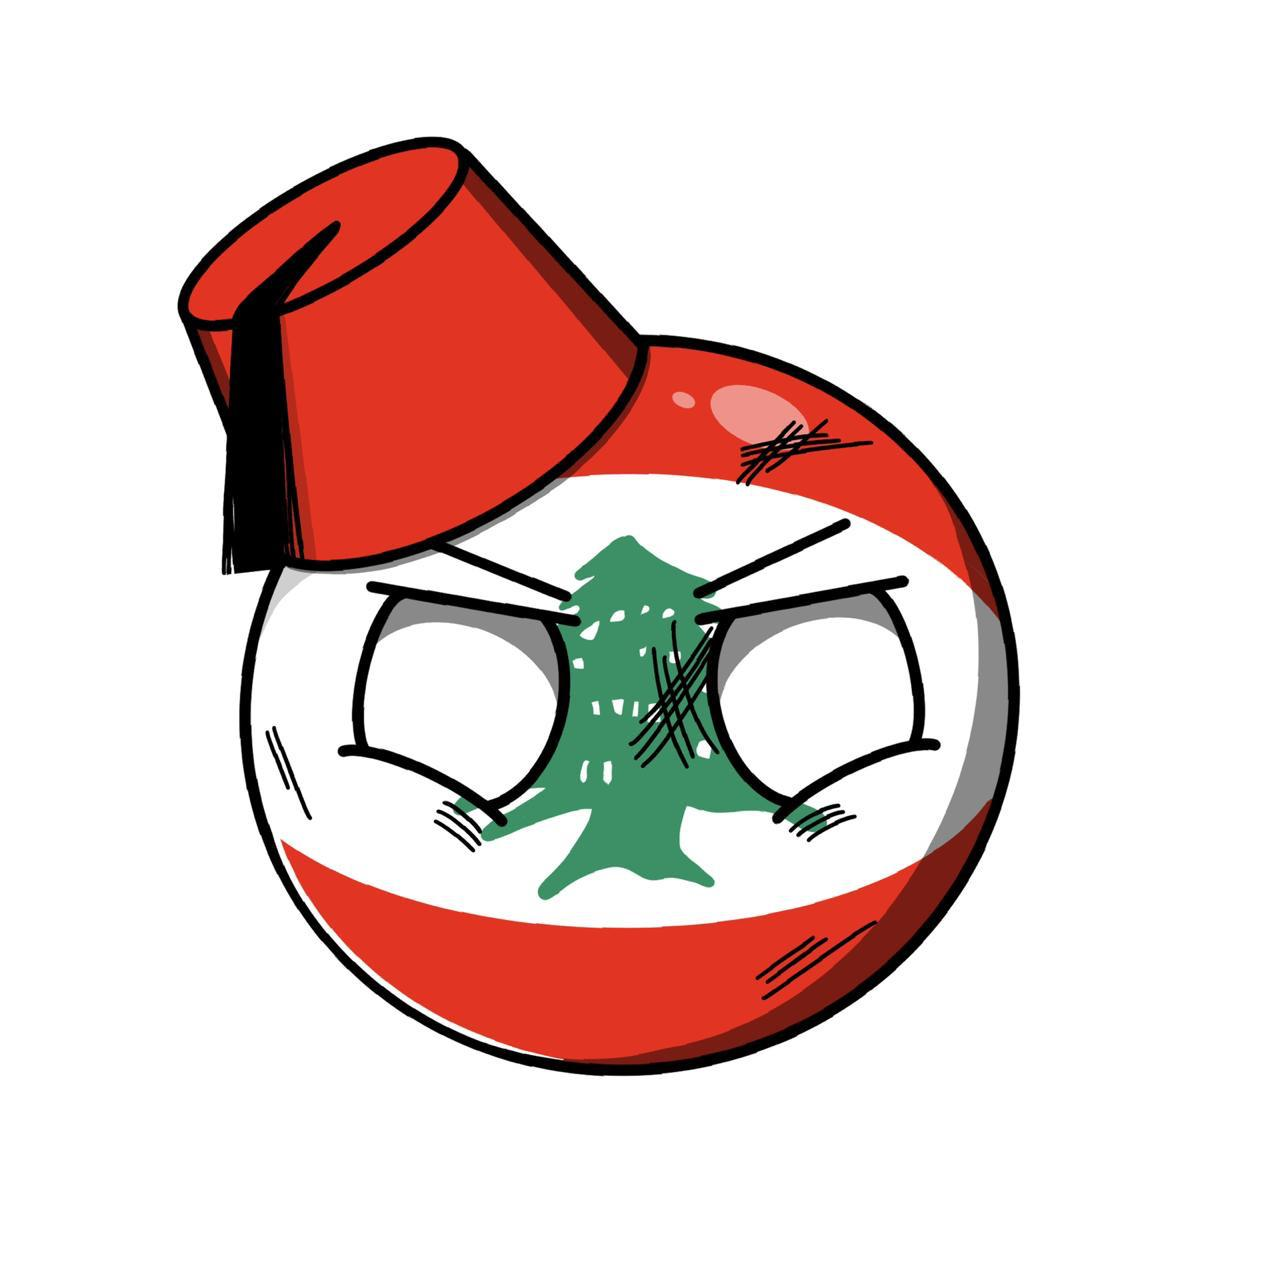
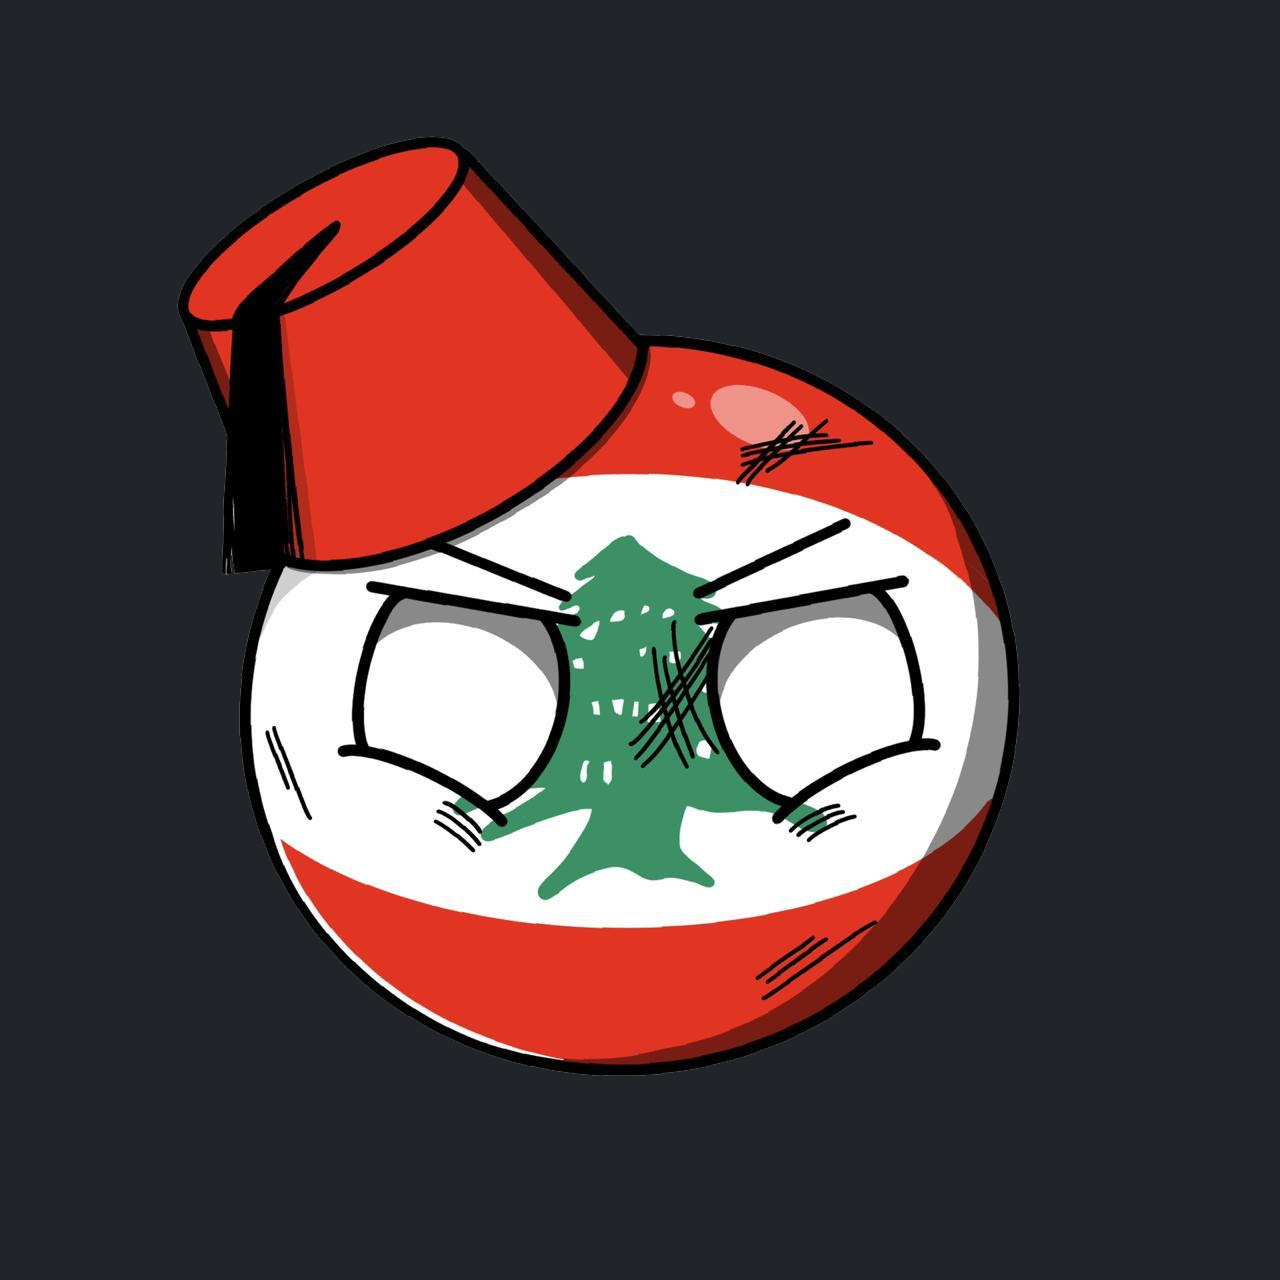
added bootstrap

diff --git a/src/components/MangaList.vue b/src/components/MangaList.vue
@@ -1,17 +1,27 @@
 <template>
   <header>
-    <h1>Enter a Manga title:</h1>
-    <input
-      type="text"
-      v-model="mtitle"
-      @change="updateList()"
-      id="title"
-      name="title"
-    />
-    <div class="container grid" :key="zip[0].data.id" v-for="zip in mangas">
-      <div class="col"><manga-preview :manga="zip[0]" /></div>
-      <div v-if="zip[1] != undefined" class="col"><manga-preview :manga="zip[1]" /></div>
+    <div class="row">
+      <div class="col">
+      <h1>Enter a Manga title:</h1>
+      <input
+        type="text"
+        v-model="mtitle"
+        @change="updateList()"
+        id="title"
+        name="title"
+      />
+      </div>
     </div>
+    <br>
+    <template :key="zip[0].data.id" v-for="zip in mangas">
+      <div class="row">
+        <div class="col"><manga-preview :manga="zip[0]" /></div>
+        <div v-if="zip[1] != undefined" class="col">
+          <manga-preview :manga="zip[1]" />
+        </div>
+      </div>
+      <br>
+    </template>
   </header>
 </template>
 
@@ -19,7 +29,8 @@
 import MangaPreview from "./MangaPreview";
 import axios from "axios";
 
-const zip = (a, b) => Array.from(Array(Math.max(b.length, a.length)), (_, i) => [a[i], b[i]]);
+const zip = (a, b) =>
+  Array.from(Array(Math.max(b.length, a.length)), (_, i) => [a[i], b[i]]);
 
 export default {
   name: "MangaList",
@@ -75,75 +86,3 @@ export default {
   },
 };
 </script>
-
-<style scoped>
-#list {
-  float: right;
-}
-
-#search {
-  float: left;
-}
-.container {
-  max-width: 940px;
-  margin-right: auto;
-  margin-left: auto;
-}
-
-@media (min-width: 600px) {
-  .grid {
-    display: table;
-    width: 100%;
-    table-layout: fixed;
-  }
-
-  .col {
-    display: table-cell;
-    padding: 1rem;
-  }
-
-  .grid-padded {
-    margin-left: -1rem;
-    margin-right: -1rem;
-  }
-  .grid-padded .grid {
-    border-spacing: 1rem 0;
-  }
-}
-
-@media (min-width: 600px) {
-  .col-1 {
-    width: 8.333333%;
-  }
-  .col-2 {
-    width: 16.666667%;
-  }
-  .col-3 {
-    width: 25%;
-  }
-  .col-4 {
-    width: 33.333333%;
-  }
-  .col-5 {
-    width: 41.666667%;
-  }
-  .col-6 {
-    width: 50%;
-  }
-  .col-7 {
-    width: 58.333333%;
-  }
-  .col-8 {
-    width: 66.666667%;
-  }
-  .col-9 {
-    width: 75%;
-  }
-  .col-10 {
-    width: 83.333333%;
-  }
-  .col-11 {
-    width: 91.666667%;
-  }
-}
-</style>

diff --git a/src/App.vue b/src/App.vue
@@ -1,16 +1,16 @@
 <template>
-<navbar />
-  <img alt="Vue logo" src="./assets/lebanon_ball.jpg" width="80" height="80"/>
+  <navbar />
   <manga-list />
 </template>
 
 <script>
 import axios from "axios";
 import MangaList from "./components/MangaList";
+import Navbar from "./components/Navbar"
 
 export default {
   name: "App",
-  components: { MangaList },
+  components: { MangaList, Navbar },
 };
 </script>
 
@@ -21,6 +21,5 @@ export default {
   -moz-osx-font-smoothing: grayscale;
   text-align: center;
   color: #2c3e50;
-  margin-top: 60px;
 }
 </style>

diff --git a/src/components/MangaPreview.vue b/src/components/MangaPreview.vue
@@ -20,10 +20,8 @@ export default {
 </script>
 
 <style scoped>
-.container {
-    display: table-cell;
-  box-sizing: border-box;
-  width: 30%;
-  border: 1px solid black;
-}
+  .container {
+    box-sizing: border-box;
+    border: 0.05em solid black;
+  }
 </style>

diff --git a/src/components/Navbar.vue b/src/components/Navbar.vue
@@ -1,0 +1,6 @@
+<template>
+  <nav class="navbar navbar-expand-lg navbar-dark bg-dark">
+      <img alt="Vue logo" src="../assets/lebanon_ball.jpg" width="80" height="80"/>
+    <a class="navbar-brand" href="#">MoussaDex</a>
+  </nav>
+</template>

diff --git a/src/main.js b/src/main.js
@@ -1,5 +1,7 @@
-import { createApp } from 'vue'
+import { createApp, Vue } from 'vue'
 import App from './App.vue'
-
+import "bootstrap/dist/css/bootstrap.min.css"
+import "bootstrap"
 
 createApp(App).mount('#app')
+
